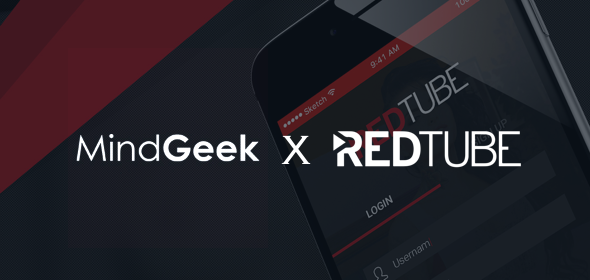
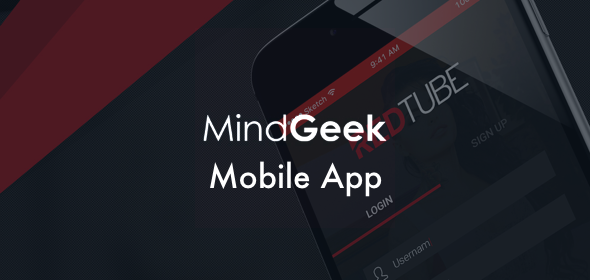
Reduce to 3 use cases

Changed region(s): [[0.122, 0.4, 0.8847, 0.7143]]

diff --git a/index.html b/index.html
@@ -419,7 +419,7 @@
 				<a href="#small-dialog4" class="work-content">
 					<div class="portfolio-item rounded shadow-dark">
 						<div class="details">
-							<span class="term">2019-2020</span>
+							<span class="term">2019-2021</span>
 							<h4 class="title">Haptic Technology</h4>
 						</div>
 						<div class="thumb">
@@ -467,6 +467,54 @@
 				<a href="#small-dialog2" class="work-content">
 					<div class="portfolio-item rounded shadow-dark">
 						<div class="details">
+							<span class="term">2017-2019</span>
+							<h4 class="title">Digital Transformations</h4>
+						</div>
+						<div class="thumb">
+							<img src="images/proj3-2.png" alt="Portfolio-title" />
+							<div class="mask"></div>
+						</div>
+					</div>
+				</a>
+				<div id="small-dialog2" class="white-popup zoom-anim-dialog mfp-hide">
+					<img src="images/proj2.png" alt="Title" />
+					<h2>Case Study 1 - Augmented Reality App</h2>
+					<p>Telecomunications, Media & Entertainment - Augmented Reality - <a href="https://www.cox.com/residential/home.html" target="_blank">COX</a>
+					</p>
+					
+					<br/>
+
+					<img src="images/proj3.png" alt="Title" />
+					<h2>Case Study 2 - Digital Transformation</h2>
+					<p>Public Services - Digital Transformation & Design System - <a href="https://saaq.gouv.qc.ca/en/" target="_blank">SAAQ</a>
+					</p>
+						
+					<br/>
+
+					<img src="images/proj1.png" alt="Title" />
+					<h2>Case Study 3 - Native Mobile App</h2>
+					<p>Banking & Financial Markets - Design System & AI - <a href="https://bdc.ca" target="_blank">BDC</a>
+					</p>
+					
+					<br/>
+
+					<p>All use cases from IBM are under NDA (Non-Disclosure Agreement). 
+						<br/>Please send a request to be able to access it.</p>
+
+					<!-- buttons -->
+					<div class="text-center mt-4">
+						<a href="mailto:manuel.sainsily@gmail.com?Subject=Contact%20from%20Manu.Vision%20Website%20Regarding%20The%20Cox%20Case%20Study" target="_blank" class="btn btn-default">Request Access</a>
+					</div>
+
+				</div>
+				
+			</div>
+
+			<!-- COX AR - portfolio item 
+			<div class="col-md-4 col-sm-6 grid-item tele">
+				<a href="#small-dialog2" class="work-content">
+					<div class="portfolio-item rounded shadow-dark">
+						<div class="details">
 							<span class="term">2019</span>
 							<h4 class="title">Augmented Reality</h4>
 						</div>
@@ -487,7 +535,7 @@
 						Telecomunications, Media & Entertainment - Augmented Reality - <a href="https://www.cox.com/residential/home.html" target="_blank">COX</a>
 					</p>
 					
-					<!-- buttons -->
+					
 					<div class="text-center mt-4">
 						<a href="mailto:manuel.sainsily@gmail.com?Subject=Contact%20from%20Manu.Vision%20Website%20Regarding%20The%20Cox%20Case%20Study" target="_blank" class="btn btn-default">Request Access</a>
 					</div>
@@ -495,8 +543,9 @@
 				</div>
 				
 			</div>
+			-->
 			
-			<!-- portfolio item -->
+			<!-- BDC - portfolio item 
 			<div class="col-md-4 col-sm-6 grid-item bank gov">
 				<a href="#small-dialog1" class="work-content">
 					<div class="portfolio-item rounded shadow-dark">
@@ -520,7 +569,7 @@
 						<br/>
 						Banking & Financial Markets - Design System - <a href="https://bdc.ca" target="_blank">BDC</a></p>
 					
-					<!-- 
+					
 					<h3>DESIGN RESEARCH ELEMENT.AI JOB OFFER</h3>
 					<p>
 						Element AI is one of the world’s largest artificial intelligence companies, with a shared goal of using our extensive research to develop AI products and software that will solve some of the most challenging issues facing businesses and society as a whole.
@@ -753,18 +802,16 @@
 							<p class="mb-0">Testimonial.</p>
 						</div>
 					</div>
-					-->
-
 					
-					<!-- buttons -->
 					<div class="text-center mt-4">
 						<a href="mailto:manuel.sainsily@gmail.com?Subject=Contact%20from%20Manu.Vision%20Website%20Regarding%20The%20BDC%20Case%20Study" target="_blank" class="btn btn-default">Request Access</a>
 					</div>
 
 				</div>
 			</div>
+			-->
 
-			<!-- portfolio item -->
+			<!-- SAAQ - portfolio item 
 			<div class="col-md-4 col-sm-6 grid-item gov insu">
 				<a href="#small-dialog3" class="work-content">
 					<div class="portfolio-item rounded shadow-dark">
@@ -788,14 +835,15 @@
 						<br/>
 						Public Services - Digital Transformation - <a href="https://saaq.gouv.qc.ca/en/" target="_blank">SAAQ</a></p>
 						
-					<!-- buttons -->
+					
 					<div class="text-center mt-4">
 						<a href="mailto:manuel.sainsily@gmail.com?Subject=Contact%20from%20Manu.Vision%20Website%20Regarding%20The%20SAAQ%20Case%20Study" target="_blank" class="btn btn-default">Request Access</a>
 					</div>
 				</div>
 			</div>
+			-->
 
-			<!-- portfolio item -->
+			<!-- GOLO - portfolio item 
 			<div class="col-md-4 col-sm-6 grid-item gov insu">
 				<a href="#small-dialog5" class="work-content">
 					<div class="portfolio-item rounded shadow-dark">
@@ -821,21 +869,22 @@
 					</p>
 					
 
-					<!-- buttons -->
+					
 					<div class="text-center mt-4">
 						<a href="mailto:manuel.sainsily@gmail.com?Subject=Contact%20from%20Manu.Vision%20Website%20Regarding%20The%20GOLO.io%20Case%20Study" target="_blank" class="btn btn-default">Request Access</a>
 					</div>
 
 				</div>
 			</div>
+			-->
 
 			<!-- portfolio item -->
 			<div class="col-md-4 col-sm-6 grid-item gov insu">
 				<a href="#small-dialog6" class="work-content">
 					<div class="portfolio-item rounded shadow-dark">
 						<div class="details">
-							<span class="term">2014-2015</span>
-							<h4 class="title">Native Mobile App</h4>
+							<span class="term">2014-2016</span>
+							<h4 class="title">Mobile App</h4>
 						</div>
 						<div class="thumb">
 							<img src="images/proj6.png" alt="Portfolio-title" />
@@ -850,7 +899,7 @@
 						Adult Industry - Native Mobile App - <a href="https://mindgeek.com">Mindgeek</a>
 					</p>
 					<p>
-						<b>Warning:</b> This link may not be totally safe for work, as some of the app screenshots contain visuals that may not be appropriate in all circumstances. But rest assured, there is absolutely no nudity or pornographic content.
+						<b>Warning:</b> Rest assured, there is absolutely no nudity or pornographic content. But this link may not be totally safe for work, as some of the app screenshots contain visuals that may not be appropriate in all circumstances. 
 					</p>
 					<!-- buttons -->
 					<div class="text-center mt-4">
@@ -1709,7 +1758,7 @@
 			</div>	
 
 		</div>
-
+ 
 	</section>
 	
 	<!-- section contact -->
